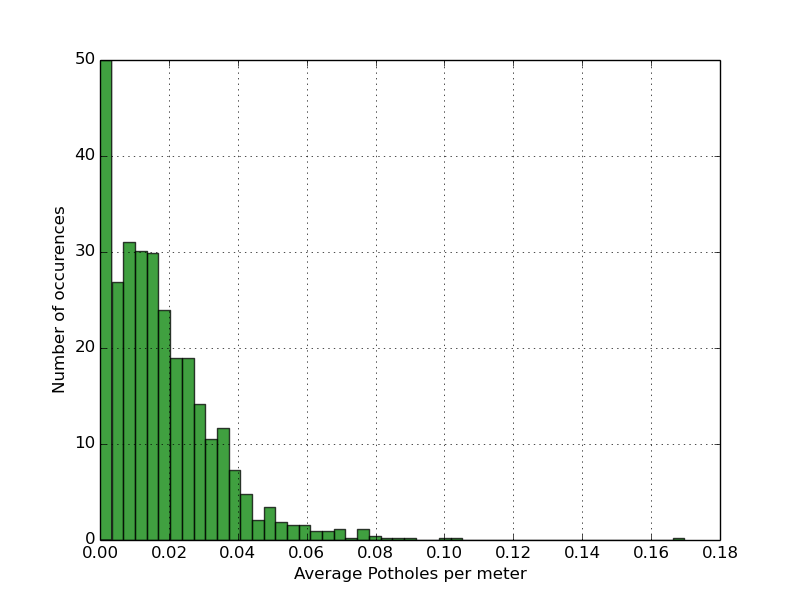
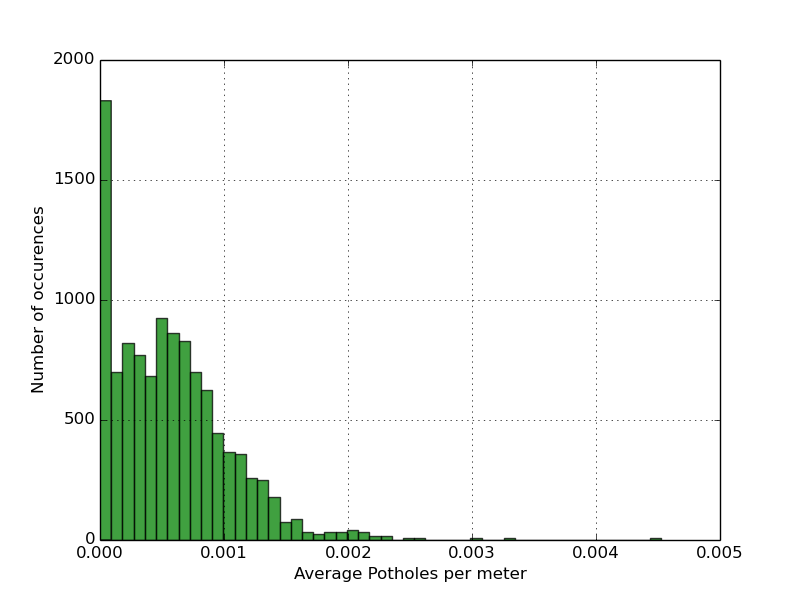
fixed some files

diff --git a/ebrakke_twaltze/potholeFilter.js b/ebrakke_twaltze/potholeFilter.js
@@ -4,20 +4,21 @@ function flatten(X) {
 	db[X].find().forEach(function(x) { db[X].update({_id: x._id}, x.value); });
 }
 
-
-var allRequests = db.ebrakke_twaltze.serviceCalls;
-
 dropPerm('potholes');
 createPerm('potholes');
+var allRequests = db.ebrakke_twaltze.serviceCalls;
 
 allRequests.mapReduce(
 	function() {
 		var potholeTypes = ['BWSC Pothole', 'Request for Pothole Repair', 'Pothole Repair (Internal)'];
-		if(potholeTypes.indexOf(this.type) === -1 && (this.latitude !== 0 && this.longitude !== 0)) {
-			emit(this._id, {type: 'pothole', latitude: this.latitude, longitude: this.longitude, report_dt: this.open_dt, status: this.case_status})
+		if(potholeTypes.indexOf(this.type) === -1 && (this.latitude !== 0 && this.longitude !== 0) && this.case_status !== 'Closed') {
+			var key = String(this.latitude)+String(this.longitude)
+			emit(key, {type: 'pothole', latitude: this.latitude, longitude: this.longitude, report_dt: this.open_dt, status: this.case_status})
 		}
 	},
-	function(k,v) {},
+	function(k,v) {
+		return v[0];
+	},
 	{out: 'ebrakke_twaltze.potholes'}
 );
 

diff --git a/ebrakke_twaltze/accidentFilter.js b/ebrakke_twaltze/accidentFilter.js
@@ -14,10 +14,9 @@ allCrime.mapReduce(
 		if(this.incident_type_description == crimeType && this.location.coordinates[0] !== 0 && this.location.coordinates[1] !== 0){
 			emit(this._id, {type: 'accident', latitude: this.location.coordinates[1], longitude: this.location.coordinates[0], report_dt: this.fromdate});
 		}
-	},              
+	},
 	function() {},
 	{out: 'ebrakke_twaltze.accidents'}
 );
 
 flatten('ebrakke_twaltze.accidents');
-

diff --git a/ebrakke_twaltze/average_incidents_along_path.py b/ebrakke_twaltze/average_incidents_along_path.py
@@ -61,11 +61,8 @@ def incidents_on_path(path, incidentType):
 
 		d = distance(path[0], path[1], np.array([lat, lng]))
 		if d <= maxDistance:
-			#print(path, (lat,lng), d)
-			#i.append(incident)
-			count += 1
-
-	return count
+			i.append(incident)
+	return i
 
 def calculate_average_incident(incidentType):
     repo.dropPermanent('randomDirectionIncidentCount')
@@ -80,16 +77,16 @@ def calculate_average_incident(incidentType):
         if list(incidentCount.find({'_id': route['_id']})):
         	continue
         print("Starting route " + str(i))
-        count = 0;
         steps = route['legs'][0]['steps']
         distance = 0
+        potholes = []
 
         for step in steps:
             start = np.array([step['start_location']['lat'], step['start_location']['lng']])
             end = np.array([step['end_location']['lat'], step['end_location']['lng']])
             distance += step['distance']['value']
-            count += incidents_on_path([start, end], incidentType)
-        incidentCount.update({'_id': route['_id']}, {'$set': {'distance': distance}})
+            potholes += incidents_on_path([start, end], incidentType)
+        incidentCount.insert({'distance': distance, 'count': len(potholes), 'incidents': potholes})
     end_time = datetime.datetime.now()
     do_prov(start_time, end_time)
 
@@ -121,5 +118,5 @@ def do_prov(start_time=None, end_time=None):
     #open('plan.json','w').write(json.dumps(json.loads(doc.serialize()), indent=4))
     print(doc.get_provn())
 
-#calculate_average_incident('pothole')
-do_prov()
+calculate_average_incident('pothole')
+#do_prov()

diff --git a/ebrakke_twaltze/calculate_danger_levels.py b/ebrakke_twaltze/calculate_danger_levels.py
@@ -29,7 +29,7 @@ def calculate_danger_levels():
 
         for d in dataset:
             dangerZoneType = d.get('type')
-
+            print(d)
             # Determine the type of zone
             if dangerZoneType == 'pothole':
                 dangerZone = Pothole(d.get('latitude'), d.get('longitude'), d.get('report_dt'), d.get('status'))

diff --git a/ebrakke_twaltze/calculate_average_per_meter.py b/ebrakke_twaltze/calculate_average_per_meter.py
@@ -23,7 +23,7 @@ def find_average():
 
     total_potholes_vs_meters = []
     for d in routes.find():
-        avg = d['pothole'] / float(d['distance'])
+        avg = d['count'] / float(d['distance'])
         total_potholes_vs_meters.append(avg)
 
     total_potholes_vs_meters = np.array(total_potholes_vs_meters)
